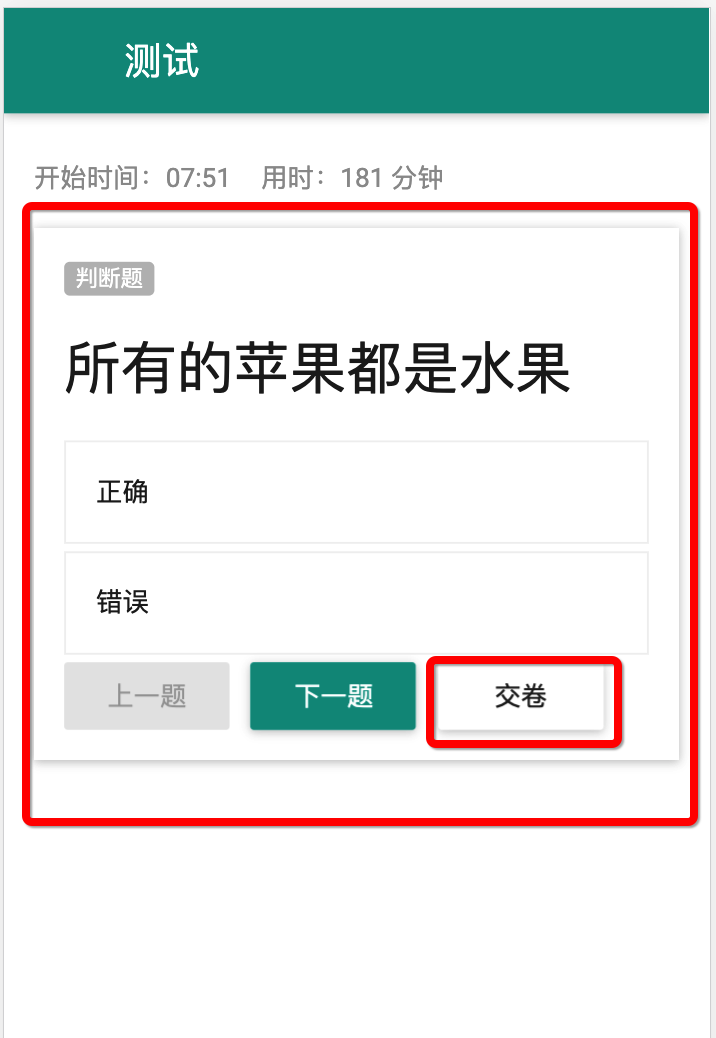
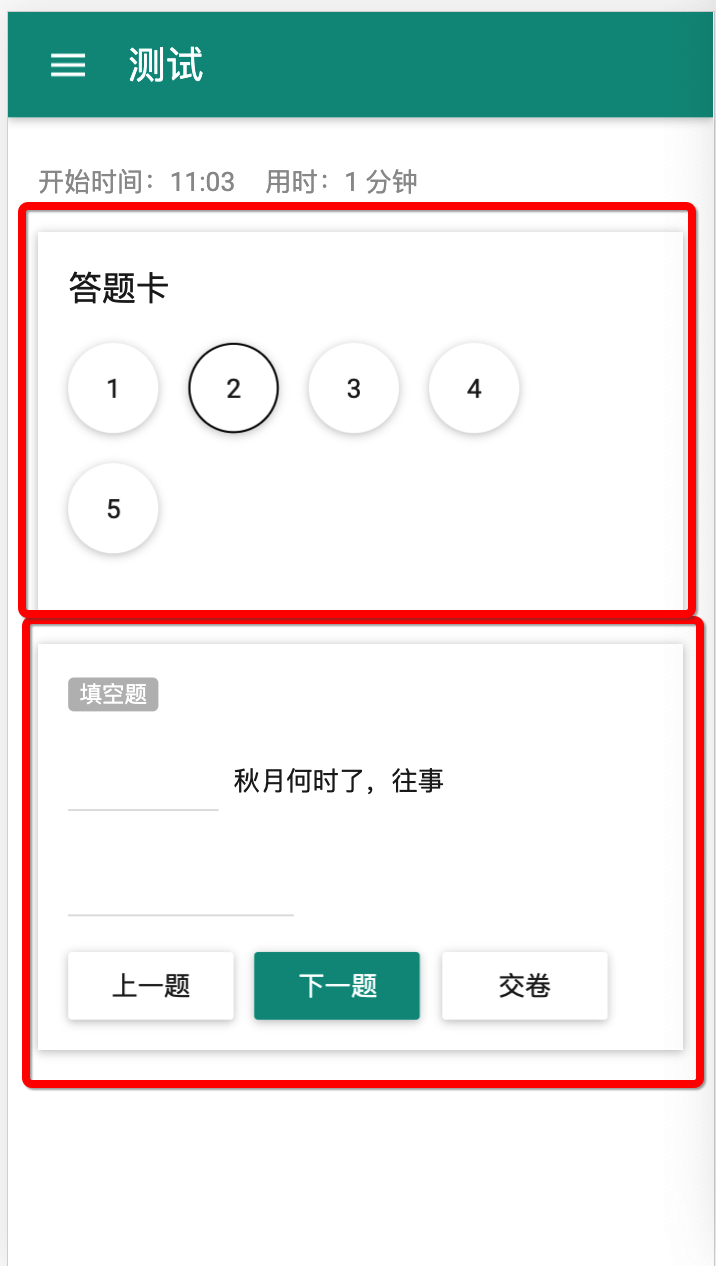
feat:任务要求更新

diff --git a/Day8/README.md b/Day8/README.md
@@ -11,3 +11,59 @@ vue-router + 练习
     - 点击day6中的**评价、商家**用vue-router实现页面跳转
 ### 补充
 1. [vue-router官网](https://router.vuejs.org/zh/)  
+2. 数据结构：
+forms: [
+    {
+        id: '1',
+        type: 'join',
+        content: '四大名著连一连',
+        leftItems: ['《水浒传》', '《西游记》', '《三国演义》', '《红楼梦》'],
+        rightItems: ['罗贯中', '施耐庵', '曹雪芹', '吴承恩'],
+        answer: [[0, 1], [1, 3], [2, 0], [4, 2]],
+        userAnswer: null
+    },
+    {
+        id: '1',
+        type: 'judgment',
+        content: '所有的苹果都是水果',
+        answer: true,
+        userAnswer: null
+    },
+    {
+        id: '1',
+        type: 'judgment',
+        content: '所有的苹果都是水果',
+        answer: true,
+        userAnswer: null
+    },
+    {
+        id: '2',
+        type: 'fill',
+        content: '___秋月何时了，往事___',
+        answer: ['春花', '知多少'],
+        userAnswer: null
+    },
+    {
+        id: '3',
+        type: 'aq',
+        content: '1+2等于几？',
+        answer: '3',
+        userAnswer: null
+    },
+    {
+        id: '4',
+        type: 'multiple',
+        content: '哪些是对的',
+        options: ['1+1=2', '1+2=3', '1+1=3', '1+2=2'],
+        answer: [0, 1],
+        userAnswer: null
+    },
+    {
+        id: '5',
+        type: 'single',
+        content: '1+1=?',
+        options: ['1', '2', '3', '4'],
+        answer: 1,
+        userAnswer: null
+    }
+]
